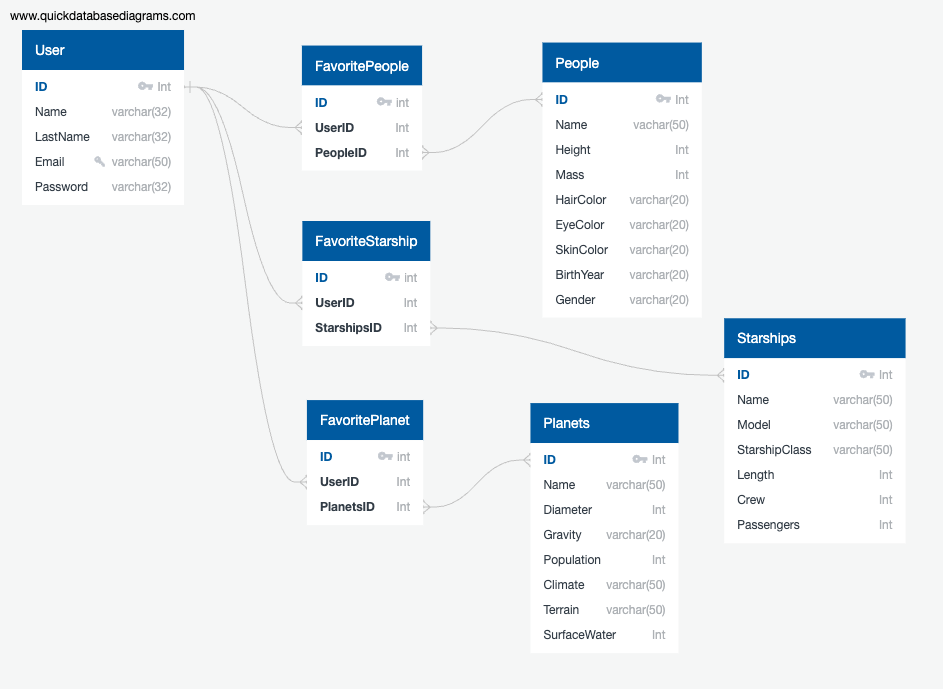
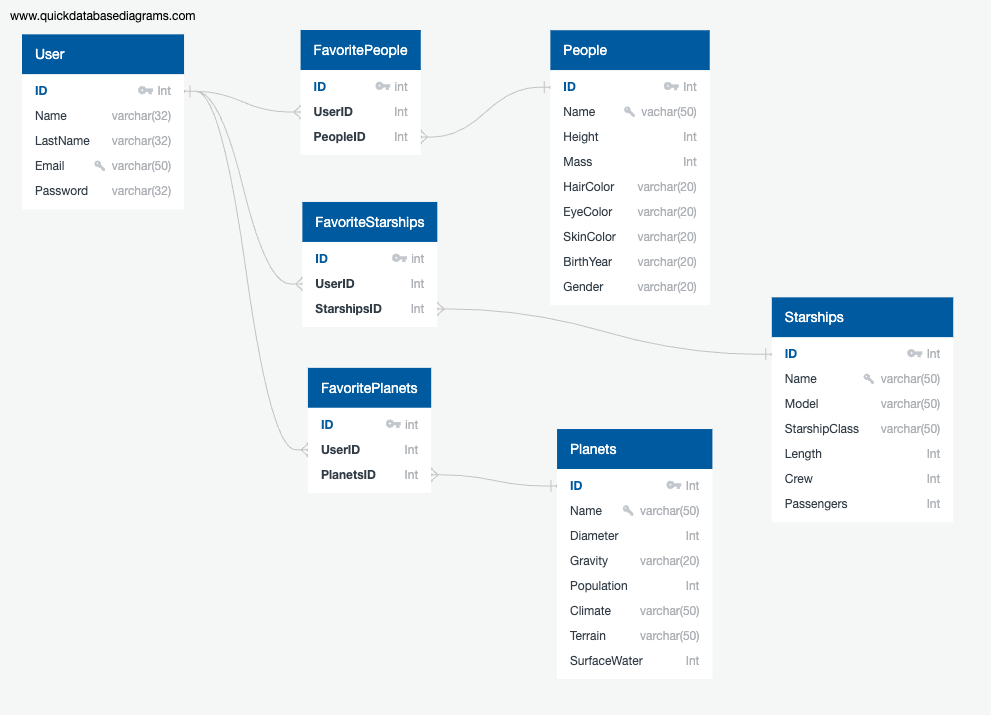
[Agregué constrains unique]

diff --git a/src/models.py b/src/models.py
@@ -12,13 +12,13 @@ class User(Base):
     id = Column(Integer, primary_key=True)
     name = Column(String(32))
     last_name = Column(String(32))
-    email = Column(String(50), nullable=False)
+    email = Column(String(50), nullable=False, unique=True)
     password = Column(String(32), nullable=False)
 
 class People(Base):
     __tablename__ = 'people'
     id = Column(Integer, primary_key=True)
-    name = Column(String(50))
+    name = Column(String(50), unique=True)
     heigth = Column(Integer)
     mass = Column(Integer)
     hair_color = Column(String(20))
@@ -30,7 +30,7 @@ class People(Base):
 class Starships(Base):
     __tablename__ = 'starships'
     id = Column(Integer, primary_key=True)
-    name = Column(String(50))
+    name = Column(String(50), unique=True)
     model = Column(String(50))
     starship_class = Column(String(50))
     length = Column(Integer)
@@ -40,7 +40,7 @@ class Starships(Base):
 class Planets(Base):
     __tablename__ = 'planets'
     id = Column(Integer, primary_key=True)
-    name = Column(String(50))
+    name = Column(String(50), unique=True)
     diameter = Column(Integer)
     gravity = Column(String(50))
     population = Column(Integer)
